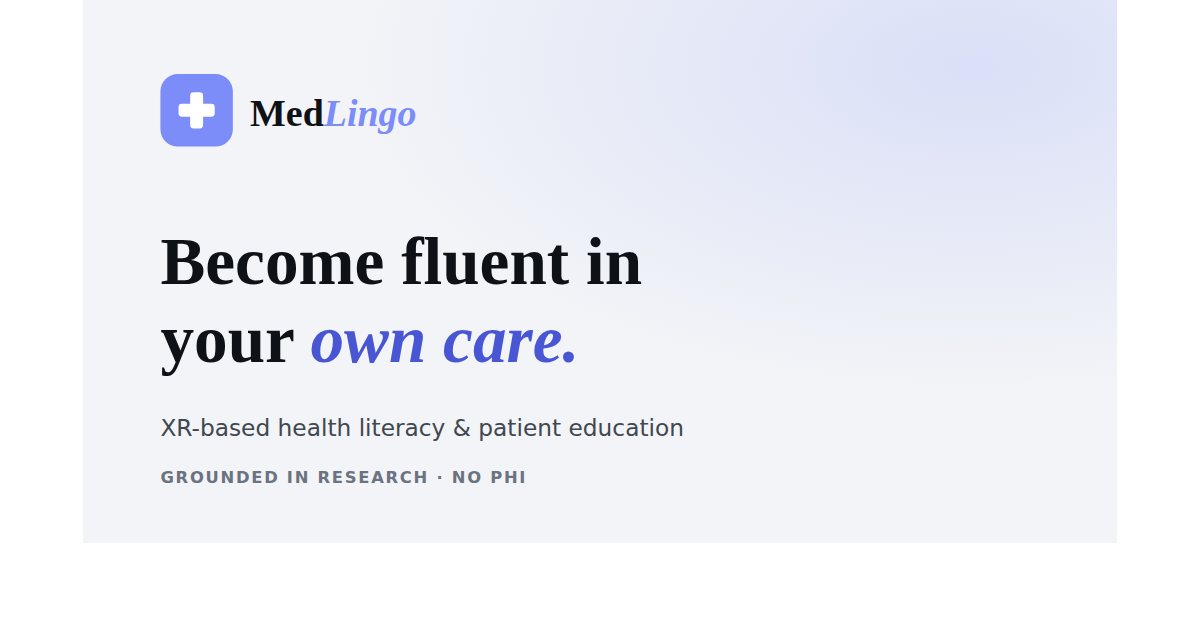
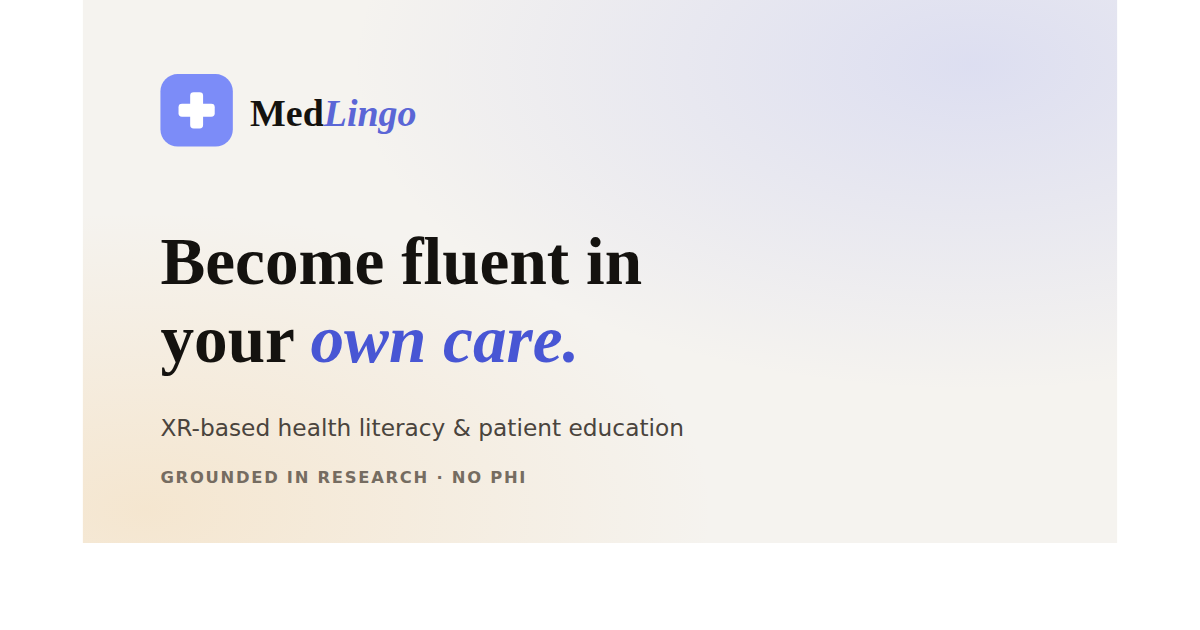
Warm the palette toward clinical warmth
Shift neutrals from cool gray to soft ivory/sand and warm body text + shadows,
add an amber glow accent in the hero, while keeping the lavender brand identity
and accessible contrast. Regenerate the OG share image to match.

Changed region(s): [[0.0617, 0.573, 0.4317, 0.8746], [0.2467, 0.1508, 0.3392, 0.2111]]

diff --git a/styles.css b/styles.css
@@ -16,15 +16,15 @@
   --amber:      #F4B860;  --amber-deep:#9a6b10;  --amber-tint:#fdf0d8;
   --rose:       #e26d8a;  --rose-deep: #a83357;  --rose-tint: #fbe3ea;
 
-  /* Ink + cool paper neutrals */
-  --ink:        #0E1116;
-  --ink-mid:    #41474F;
-  --ink-light:  #6B7280;
-  --ink-faint:  #9AA1AC;
+  /* Ink + soft warm neutrals (warmed from brand paper for "clinical warmth") */
+  --ink:        #14120F;
+  --ink-mid:    #4A443D;
+  --ink-light:  #756C61;
+  --ink-faint:  #A69C8E;
 
-  --paper:      #F2F4F7;
-  --paper-2:    #E9EDF4;  /* section tint */
-  --line:       #DCE1EA;  /* borders */
+  --paper:      #F5F3EF;  /* warm off-white */
+  --paper-2:    #ECE7DE;  /* warm sand — section tint */
+  --line:       #E3DCD0;  /* warm borders */
   --card:       #ffffff;
 
   /* Type */
@@ -32,10 +32,10 @@
   --sans:  'DM Sans', system-ui, -apple-system, BlinkMacSystemFont, sans-serif;
   --label: 'DM Sans', system-ui, sans-serif;
 
-  /* Shadows (cool-tinted) */
-  --shadow-sm: 0 1px 3px rgba(14,17,22,.06);
-  --shadow-md: 0 8px 26px rgba(33,40,90,.10);
-  --shadow-lg: 0 20px 54px rgba(33,40,90,.18);
+  /* Shadows (warm-tinted) */
+  --shadow-sm: 0 1px 3px rgba(40,32,22,.06);
+  --shadow-md: 0 8px 26px rgba(50,40,28,.10);
+  --shadow-lg: 0 20px 54px rgba(50,40,28,.16);
 
   --maxw: 1140px;
   --radius: 18px;
@@ -141,7 +141,7 @@ h3 { font-size: 21px; }
   content: ""; position: absolute; inset: 0; pointer-events: none; z-index: 0;
   background:
     radial-gradient(58% 55% at 88% 10%, rgba(124,140,248,.16), transparent 70%),
-    radial-gradient(46% 48% at 4% 92%, rgba(63,207,177,.12), transparent 70%);
+    radial-gradient(48% 50% at 4% 92%, rgba(244,184,96,.20), transparent 70%);
 }
 .hero__grid { position: relative; z-index: 1; display: grid; grid-template-columns: 1.05fr .95fr; gap: 56px; align-items: center; }
 .hero h1 { font-size: clamp(40px, 6.4vw, 68px); line-height: 1.04; margin-bottom: 22px; }
